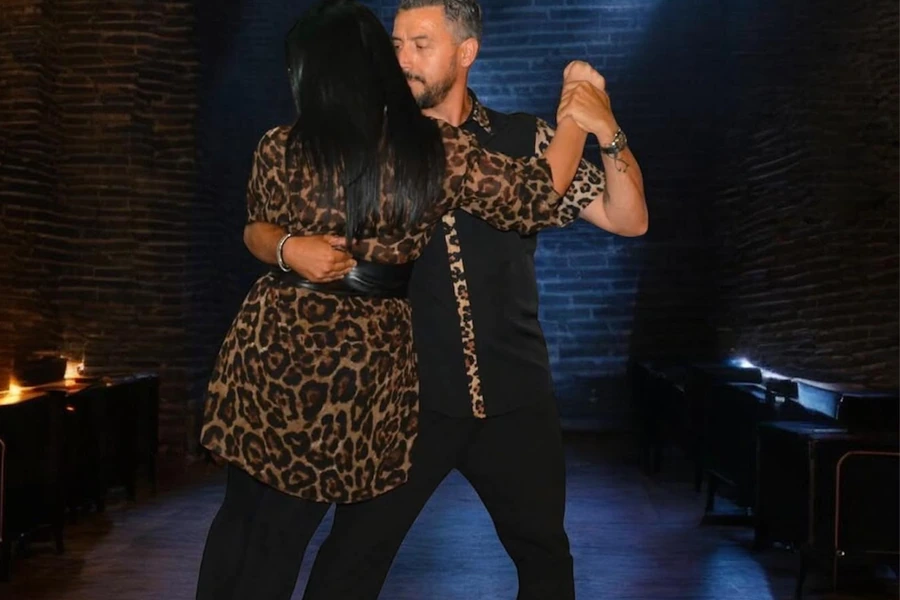
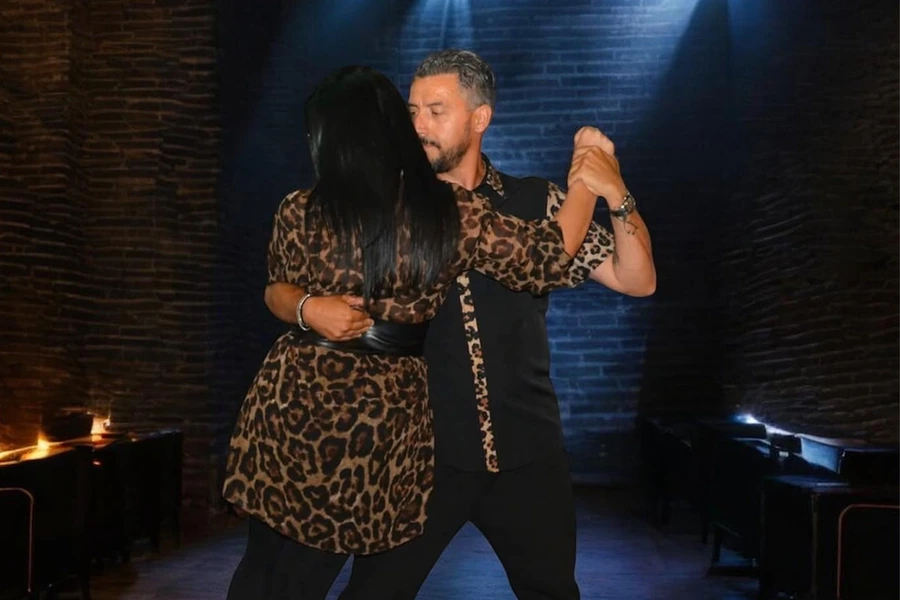
Tre correzioni per il mobile
1. Schede maestri: al tocco restavano aperte per sempre. Ora tornano da sole
   dopo 5 secondi, aprirne una richiude quella gia' aperta e si chiudono anche
   toccando fuori. Su desktop resta l'hover, invariato.

2. Volto tagliato sulle foto dei maestri: la scheda su mobile e' bassa e larga
   (2:1) mentre le foto sono 3:2, quindi il ritaglio centrato mangiava la testa.
   Aggiunto object-position al 22% dall'alto, e ripreso il ritaglio di Giuseppe
   con piu' spazio sopra la testa.

3. Fascia dei numeri senza margine laterale su mobile: aveva le classi "wrap" e
   "stats-band" sullo stesso elemento, e il padding della fascia sovrascriveva
   il margine del wrap. Ora la fascia sta dentro al wrap: 18px per lato.

diff --git a/index.html b/index.html
@@ -25,7 +25,7 @@
 <link rel="preconnect" href="https://fonts.gstatic.com" crossorigin>
 <link href="https://fonts.googleapis.com/css2?family=Bricolage+Grotesque:opsz,wght@12..96,500;12..96,600;12..96,700;12..96,800&family=Poppins:wght@400;500;600&family=Kaushan+Script&display=swap" rel="stylesheet">
 
-<link rel="stylesheet" href="css/style.css?v=39">
+<link rel="stylesheet" href="css/style.css?v=40">
 
 <!-- Dati struttrati: aiutano Google a mostrare indirizzo, telefono e mappa nelle ricerche locali -->
 <script type="application/ld+json">
@@ -147,11 +147,13 @@
     </div>
   </div>
 
-  <div class="wrap stats-band reveal">
-    <div class="stat"><span class="stat-num" data-count="30" data-suffix="+">30+</span><span class="stat-lbl">Anni di esperienza</span></div>
-    <div class="stat"><span class="stat-num" data-count="9">9</span><span class="stat-lbl">Discipline</span></div>
-    <div class="stat"><span class="stat-num" data-count="8">8</span><span class="stat-lbl">Istruttori qualificati</span></div>
-    <div class="stat"><span class="stat-num" data-count="2500" data-suffix="+">2500+</span><span class="stat-lbl">Studenti soddisfatti</span></div>
+  <div class="wrap">
+    <div class="stats-band reveal">
+      <div class="stat"><span class="stat-num" data-count="30" data-suffix="+">30+</span><span class="stat-lbl">Anni di esperienza</span></div>
+      <div class="stat"><span class="stat-num" data-count="9">9</span><span class="stat-lbl">Discipline</span></div>
+      <div class="stat"><span class="stat-num" data-count="8">8</span><span class="stat-lbl">Istruttori qualificati</span></div>
+      <div class="stat"><span class="stat-num" data-count="2500" data-suffix="+">2500+</span><span class="stat-lbl">Studenti soddisfatti</span></div>
+    </div>
   </div>
 </section>
 
@@ -493,6 +495,6 @@
   <span class="lb-count" id="lightboxCount"></span>
 </dialog>
 
-<script src="js/main.js?v=35"></script>
+<script src="js/main.js?v=40"></script>
 </body>
 </html>

diff --git a/js/main.js b/js/main.js
@@ -136,12 +136,31 @@
     }, { passive: true });
   }
 
-  /* ---- Schede maestri: su desktop gira col mouse (CSS), su touch col tocco ---- */
+  /* ---- Schede maestri: su desktop gira col mouse (CSS), su touch col tocco ----
+     Sul touch la scheda torna da sola dopo qualche secondo, e aprirne una
+     richiude quella eventualmente gia' aperta. */
   var canHover = window.matchMedia('(hover: hover) and (pointer: fine)');
-  $$('.team-card.has-photo').forEach(function (c) {
+  var teamCards = $$('.team-card.has-photo');
+  var RITORNO = 5000;
+  var flipTimer = null;
+  var chiudiTutte = function () {
+    if (flipTimer) { clearTimeout(flipTimer); flipTimer = null; }
+    teamCards.forEach(function (x) { x.classList.remove('flipped'); });
+  };
+  teamCards.forEach(function (c) {
     on(c, 'click', function () {
-      if (!canHover.matches) c.classList.toggle('flipped');
+      if (canHover.matches) return;              // su desktop ci pensa l'hover
+      var eraAperta = c.classList.contains('flipped');
+      chiudiTutte();
+      if (!eraAperta) {
+        c.classList.add('flipped');
+        flipTimer = setTimeout(chiudiTutte, RITORNO);
+      }
     });
+  });
+  /* toccando altrove si richiude subito */
+  on(document, 'click', function (e) {
+    if (!canHover.matches && !e.target.closest('.team-card')) chiudiTutte();
   });
 
   /* ---- Gallery lightbox (navigabile: frecce, tastiera, swipe) ---- */

diff --git a/css/style.css b/css/style.css
@@ -216,7 +216,9 @@ em,.accent{font-style:normal;color:var(--brand)}
 .team-card:hover .team-face,.team-card.flipped .team-face{border-color:rgba(226,60,36,.5)}
 .team-front{padding:1.6rem;display:flex;gap:1.1rem;align-items:center}
 .team-back{position:absolute;top:0;left:0;right:0;bottom:0;transform:rotateY(180deg);overflow:hidden;display:flex;align-items:flex-end}
-.team-back img{position:absolute;top:0;left:0;width:100%;height:100%;object-fit:cover}
+/* object-position alto: su mobile la scheda e' bassa e larga, con il centro
+   il ritaglio taglierebbe la testa. Cosi' il volto resta sempre in campo. */
+.team-back img{position:absolute;top:0;left:0;width:100%;height:100%;object-fit:cover;object-position:center 22%}
 .team-back::after{content:"";position:absolute;top:0;left:0;right:0;bottom:0;background:linear-gradient(180deg,rgba(12,9,14,.15) 35%,rgba(10,7,11,.88) 100%)}
 .team-back-name{position:relative;z-index:1;padding:1.1rem 1.3rem;color:#fff;font-family:var(--font-display);font-weight:700;font-size:1.2rem;text-shadow:0 2px 12px rgba(0,0,0,.7)}
 .team-photo{flex:0 0 auto;width:76px;height:76px;border-radius:50%;background:radial-gradient(120% 120% at 30% 20%,#2a2732,var(--night));display:grid;place-items:center;overflow:hidden;position:relative}
